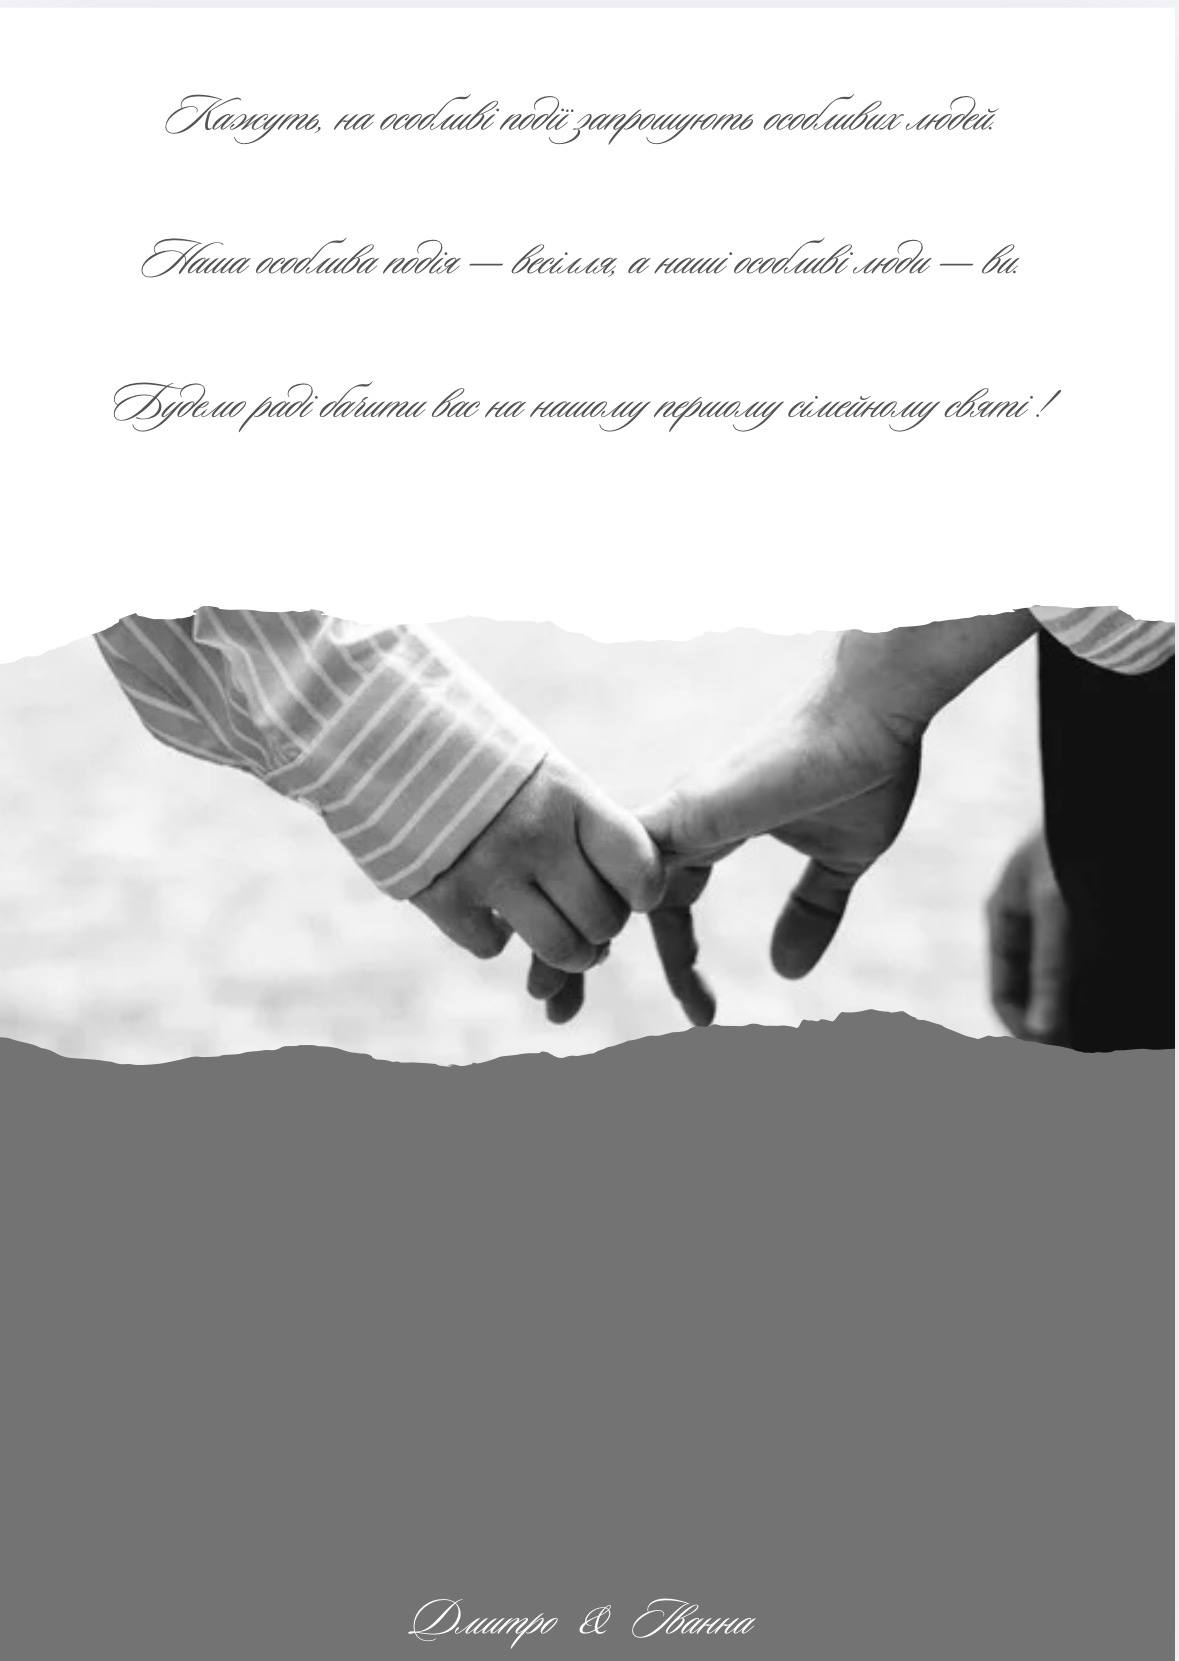
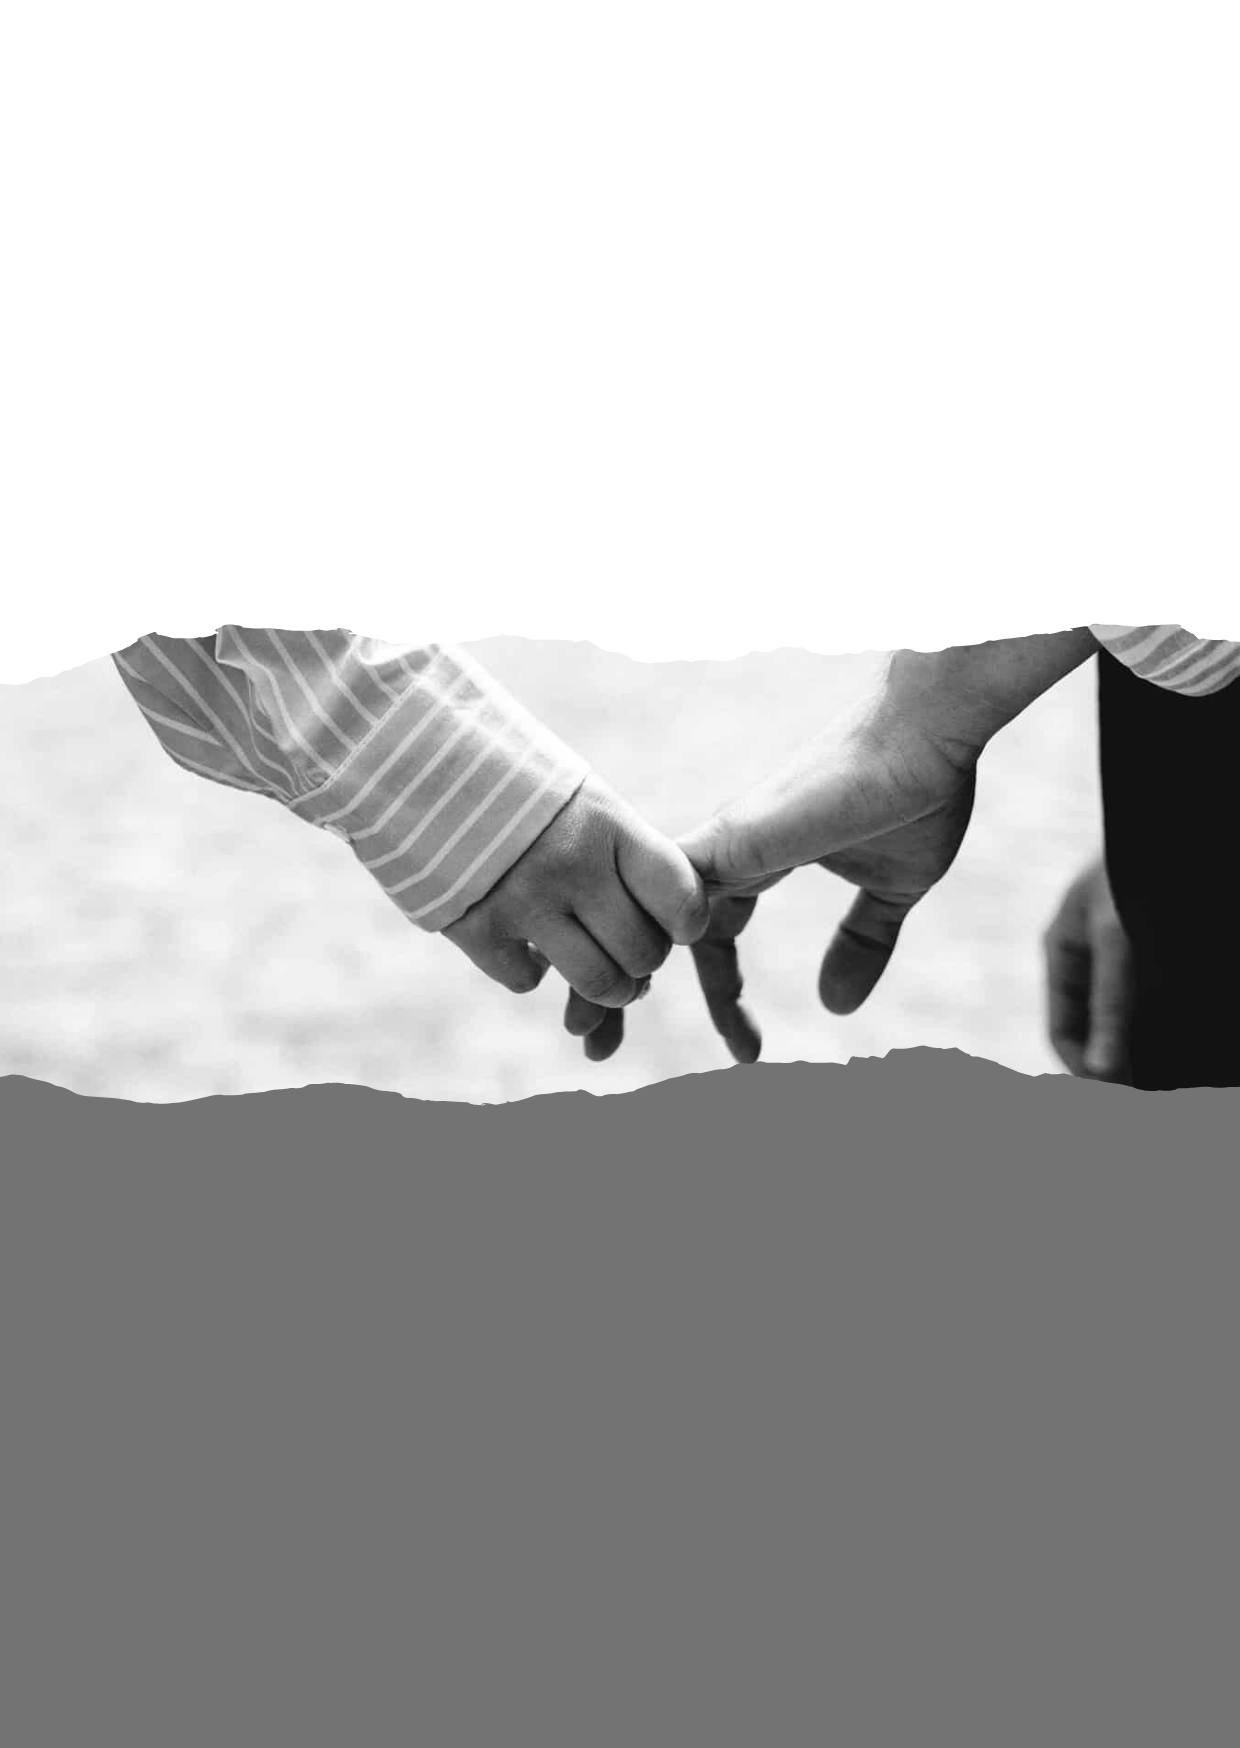
10

diff --git a/index.html b/index.html
@@ -6,7 +6,7 @@
 <title>Дмитро & Іванна — Весілля</title>
 <link rel="preconnect" href="https://fonts.googleapis.com">
 <link rel="preconnect" href="https://fonts.gstatic.com" crossorigin>
-<link href="https://fonts.googleapis.com/css2?family=Cormorant+Garamond:wght@300;400;500;600&family=Josefin+Sans:wght@200;300;400&display=swap" rel="stylesheet">
+<link href="https://fonts.googleapis.com/css2?family=Cormorant+Garamond:wght@300;400;500;600&family=Josefin+Sans:wght@200;300;400&family=Playfair+Display:ital,wght@0,400;0,500;1,400;1,500&display=swap" rel="stylesheet">
 <script src="https://cdn.tailwindcss.com"></script>
 <script>tailwind.config={corePlugins:{preflight:false}}</script>
 <style>
@@ -69,6 +69,54 @@ body{
   transform:scale(1);
 }
 
+/* === PHOTO2 TEXT OVERLAY === */
+.photo2-overlay{
+  position:absolute;
+  inset:0;
+  display:flex;
+  flex-direction:column;
+  align-items:center;
+  justify-content:flex-start;
+  padding:clamp(40px,12vw,100px) clamp(20px,6vw,48px) clamp(16px,4vw,32px);
+  text-align:center;
+  gap:clamp(14px,3.5vw,24px);
+  pointer-events:none;
+}
+.photo2-name{
+  margin-top:auto;
+  font-family:'Cormorant Garamond',serif;
+  font-weight:400;
+  font-style:italic;
+  font-size:clamp(1.6rem,6vw,2.8rem);
+  color:#fff;
+  letter-spacing:.05em;
+  opacity:0;
+  transform:translateY(14px);
+  transition:opacity 1s ease .6s, transform 1s ease .6s;
+  pointer-events:none;
+}
+.photo2-overlay.visible .photo2-name{
+  opacity:1;
+  transform:translateY(0);
+}
+.photo2-line{
+  font-family:'Playfair Display',serif;
+  font-weight:400;
+  font-style:italic;
+  font-size:clamp(.95rem,3.5vw,1.35rem);
+  color:#1a1a1a;
+  line-height:1.7;
+  opacity:0;
+  transform:translateY(18px);
+  transition:opacity .9s ease, transform .9s ease;
+}
+.photo2-line.nth2{transition-delay:.2s}
+.photo2-line.nth3{transition-delay:.4s}
+.photo2-overlay.visible .photo2-line{
+  opacity:1;
+  transform:translateY(0);
+}
+
 /* === SCROLL CUE === */
 @keyframes bounce-cue{
   0%,100%{transform:translate(-50%,0);opacity:.6}
@@ -103,7 +151,8 @@ body{
   letter-spacing:.3em;
   margin-bottom:28px;
   opacity:.85;
-  text-align:right;
+  text-align:center;
+  width:100%;
 }
 .timing-title{
   font-family:'Cormorant Garamond',serif;
@@ -112,7 +161,8 @@ body{
   letter-spacing:.15em;
   text-transform:uppercase;
   margin-bottom:48px;
-  text-align:right;
+  text-align:center;
+  width:100%;
 }
 .timeline{
   display:flex;
@@ -378,7 +428,7 @@ body{
 </style>
 </head>
 <body>
-<div id="wrapper"><div class="panel" id="hero"><img src="img/hero-bg.jpg" alt="Весільне фото"><div class="countdown-overlay" id="countdown"><div class="countdown-unit"><span class="countdown-num" id="cd-days">--</span><span class="countdown-lbl">днів</span></div><div class="countdown-sep">:</div><div class="countdown-unit"><span class="countdown-num" id="cd-hours">--</span><span class="countdown-lbl">годин</span></div><div class="countdown-sep">:</div><div class="countdown-unit"><span class="countdown-num" id="cd-mins">--</span><span class="countdown-lbl">хвилин</span></div><div class="countdown-sep">:</div><div class="countdown-unit"><span class="countdown-num" id="cd-secs">--</span><span class="countdown-lbl">секунд</span></div></div><div class="scroll-cue" onclick="document.getElementById('photo2').scrollIntoView({behavior:'smooth'})"><svg xmlns="http://www.w3.org/2000/svg" width="28" height="28" viewBox="0 0 24 24" fill="none" stroke="rgba(255,255,255,.8)" stroke-width="1.5" stroke-linecap="round" stroke-linejoin="round"><path d="M19 9l-7 7-7-7"/></svg></div></div><div class="panel" id="photo2"><img src="img/hero-bg2.jpg" alt="Дмитро і Іванна" class="panel-reveal"></div><section id="timing">
+<div id="wrapper"><div class="panel" id="hero"><img src="img/hero-bg.jpg" alt="Весільне фото"><div class="countdown-overlay" id="countdown"><div class="countdown-unit"><span class="countdown-num" id="cd-days">--</span><span class="countdown-lbl">днів</span></div><div class="countdown-sep">:</div><div class="countdown-unit"><span class="countdown-num" id="cd-hours">--</span><span class="countdown-lbl">годин</span></div><div class="countdown-sep">:</div><div class="countdown-unit"><span class="countdown-num" id="cd-mins">--</span><span class="countdown-lbl">хвилин</span></div><div class="countdown-sep">:</div><div class="countdown-unit"><span class="countdown-num" id="cd-secs">--</span><span class="countdown-lbl">секунд</span></div></div><div class="scroll-cue" onclick="document.getElementById('photo2').scrollIntoView({behavior:'smooth'})"><svg xmlns="http://www.w3.org/2000/svg" width="28" height="28" viewBox="0 0 24 24" fill="none" stroke="rgba(255,255,255,.8)" stroke-width="1.5" stroke-linecap="round" stroke-linejoin="round"><path d="M19 9l-7 7-7-7"/></svg></div></div><div class="panel" id="photo2"><img src="img/hero-bg2.jpg" alt="Дмитро і Іванна" class="panel-reveal"><div class="photo2-overlay" id="photo2text"><p class="photo2-line">Кажуть, на особливі події запрошують особливих людей.</p><p class="photo2-line nth2">Наша особлива подія &#8212; весілля, а наші особливі люди &#8212; ви.</p><p class="photo2-line nth3">Будемо раді бачити вас на нашому першому сімейному святі!</p><span class="photo2-name">Дмитро &amp; Іванна</span></div></div><section id="timing">
 <p class="timing-date">12 | 06 | 2026</p>
 <h2 class="timing-title">Timing</h2>
 <div class="timeline">
@@ -457,6 +507,10 @@ document.querySelectorAll('.event').forEach(el=>o.observe(el));
 
 const ro=new IntersectionObserver(e=>{e.forEach(x=>{if(x.isIntersecting){x.target.classList.add('revealed');ro.unobserve(x.target)}})},{threshold:.08});
 document.querySelectorAll('.panel-reveal').forEach(el=>ro.observe(el));
+
+const ro2=new IntersectionObserver(e=>{e.forEach(x=>{if(x.isIntersecting){x.target.classList.add('visible');ro2.unobserve(x.target)}})},{threshold:.2});
+const p2text=document.getElementById('photo2text');
+if(p2text)ro2.observe(p2text);
 
 // Countdown → June 12, 2026, 10:00 AM Kyiv (EEST UTC+3)
 (function(){
